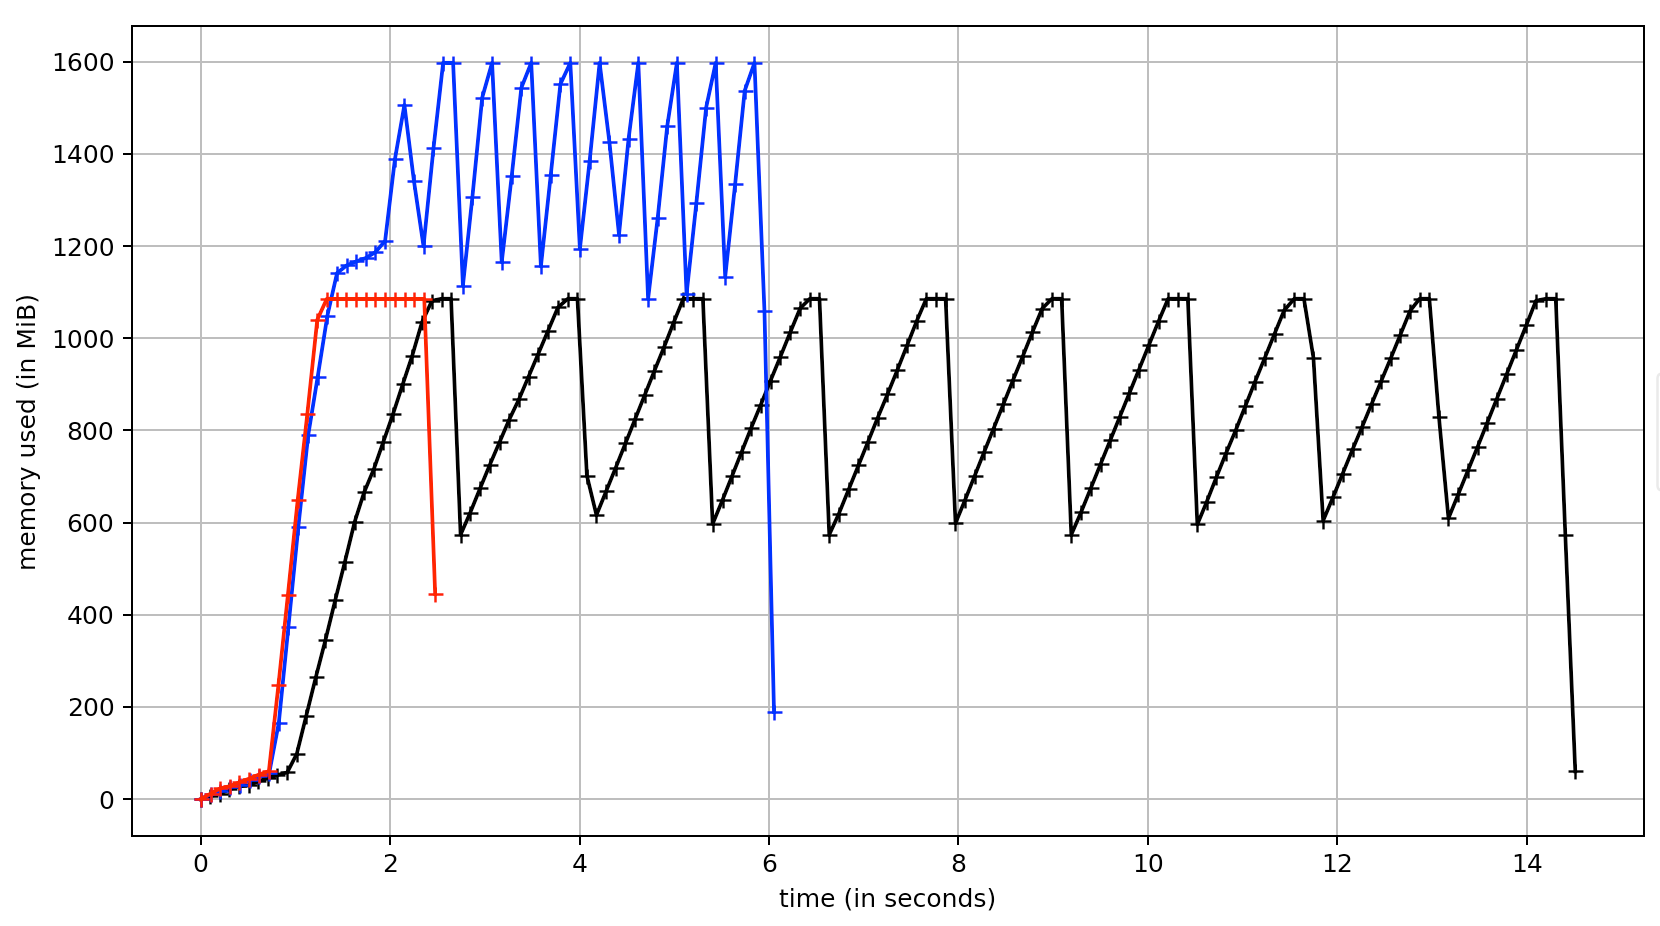
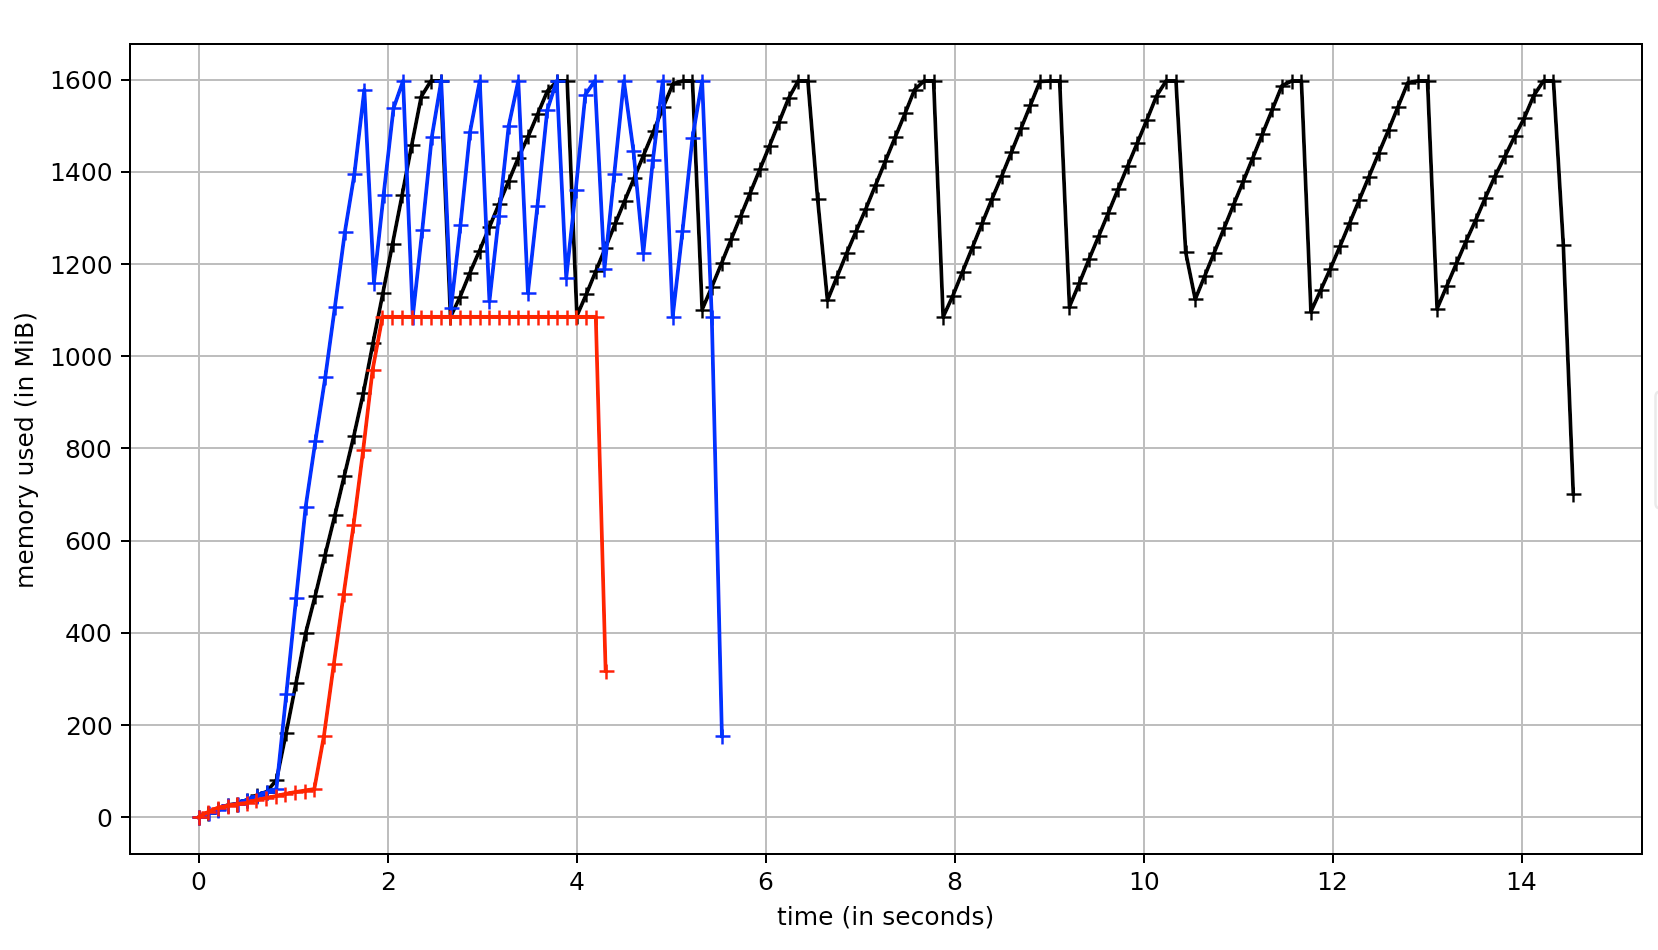
docs: update black cube benchmark

diff --git a/benchmarks/README.md b/benchmarks/README.md
@@ -135,24 +135,24 @@ Here there's a slight difference in the memory usage. SciPy uses about 850 MB wh
 # 10x Head to Head: Black Cube
 
 <p style="font-style: italics;" align="center">
-<img height=384 src="https://raw.githubusercontent.com/seung-lab/connected-components-3d/master/benchmarks/cc3d_sparse_black.png" alt="Fig. 4: Different configurations run against a uint64 512x512x512 black cube using 26-connectivity. (black) SciPy 1.5.2 (blue) cc3d 1.14.0 (red) cc3d 1.14.0 in sparse mode." /><br>
-Fig. 4: Different configurations run against a uint64 512x512x512 black cube using 26-connectivity. (black) SciPy 1.5.2 (blue) cc3d 1.14.0 (red) cc3d 1.14.0 in sparse mode.
+<img height=384 src="https://raw.githubusercontent.com/seung-lab/connected-components-3d/master/benchmarks/cc3d_sparse_black.png" alt="Fig. 4: Different configurations run against a uint64 512x512x512 black cube using 26-connectivity. (black) SciPy 1.5.2 (blue) cc3d 2.0.0 with zeroth_pass off (red) cc3d 2.0.0 with zeroth_pass on." /><br>
+Fig. 4: Different configurations run against a uint64 512x512x512 black cube using 26-connectivity. (black) SciPy 1.5.2 (blue) cc3d 2.0.0 with zeroth_pass off (red) cc3d 2.0.0 with zeroth_pass on.
 </p>   
 
 Sometimes empty data shows up in your pipeline. Sometimes a lot of it. How do your libraries handle it? At full speed? Slower? Faster than normal?  
 
-Here we show scipy versus cc3d in normal and sparse modes of operation using 26 connectivity. cc3d 1.14.0 contains optimizations for handling this case. In all modes, cc3d will skip the relabeling pass if provisional labels total fewer than two. In sparse mode, it will also skip the decision tree pass and memory allocation of data structures as well if it detects zero foreground voxels.  
+Here we show scipy versus cc3d with `zeroth_pass` enabled and disabled using 26 connectivity. cc3d 2.0.0 contains optimizations for handling this case. In all modes, cc3d will skip the relabeling pass if provisional labels total fewer than two. In zeroth_pass mode, it will also skip the decision tree pass and memory allocation of data structures as well if it estimates zero  provisional voxels.  
 
-We can see how this bears out. In black, scipy runs at a brisk and reasonable clip. In data not shown, it appears to have some optimization for black voxels as it runs more slowly on a solid color non-zero cube. cc3d with sparse off rushes through the decision tree and skips the relabeling. With sparse on, it skips everything except the scan for foreground labels.
+We can see how this bears out. In black, scipy runs at a brisk and reasonable clip. In data not shown, it appears to have some optimization for black voxels as it runs more slowly on a solid color non-zero cube. cc3d with zeroth_pass off rushes through the decision tree and skips the relabeling. With zeroth_pass on, it skips everything except the scan for foreground labels.
 
-The worst memory usage is by cc3d with sparse mode off. Scipy and cc3d are approximately equal in memory usage with sparse mode on.  
+Scipy and cc3d are approximately equal in memory usage with zeroth_pass off, but cc3d wins with it on.  
 
 
 | Trial             | MVx/sec | Rel. Perf. |
 |-------------------|---------|------------|
-| SciPy 1.5.2       |  101    |  1.00x     |
-| cc3d 1.14.0       |  339    |  3.36x     |
-| cc3d 1.14.0 sparse| 1107    | 10.96x     |
+| SciPy 1.5.2       |  102    |  1.0x      |
+| cc3d 1.14.0 off   |  336    |  3.3x      |
+| cc3d 1.14.0 on    |  557    |  5.5x      |
 
 
 
